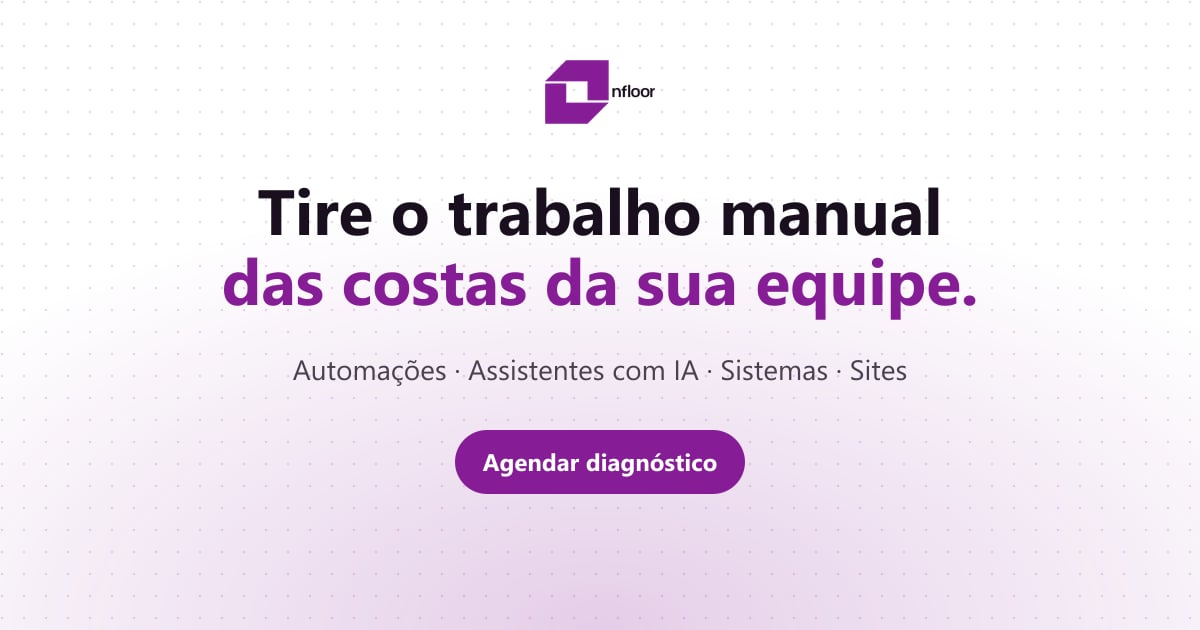
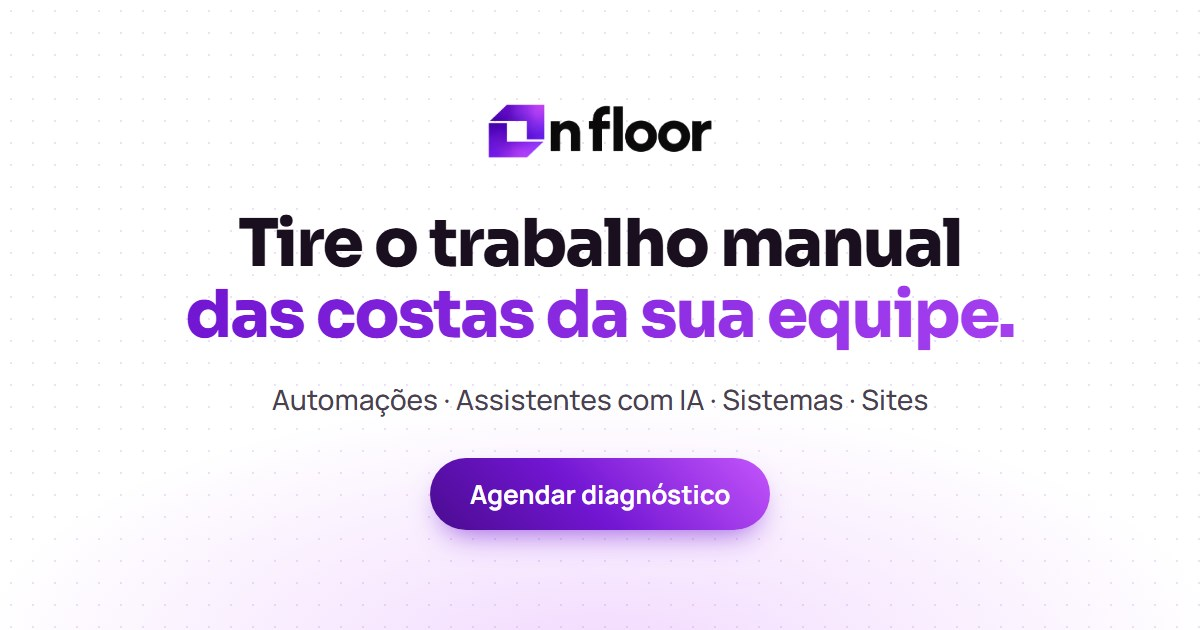
Aplica a nova identidade visual da On Floor no site
Logo novo (ícone em degradê roxo fazendo o "O" de "nfloor") no topo e
no rodapé, com texto preto no fundo claro e branco no escuro, e o ícone
novo como favicon. O roxo da marca passa de #861d97 para #7216d3, o
mesmo do painel do SDR, e os degradês do botão do diagrama e do bloco de
contato seguem o da identidade (#c455fb → #4a0b8f). A imagem de
compartilhamento foi refeita com o logo e as cores novas.

Changed region(s): [[0.1542, 0.3016, 0.8633, 0.8746], [0.4008, 0.0905, 0.6167, 0.2714]]

diff --git a/styles.css b/styles.css
@@ -1,7 +1,7 @@
 /* ═══ DESIGN SYSTEM — On Floor ═══
    Tom: limpo, claro e confiável — fala com quem não é da área.
    Fontes: Sora (títulos) + Manrope (texto)
-   Cor de marca: roxo On Floor (#861d97) sobre fundo branco
+   Cor de marca: roxo On Floor (#7216d3), degradê da identidade #c455fb → #4a0b8f, sobre fundo branco
 ═══════════════════════════════════════════════════ */
 
 :root {
@@ -12,12 +12,12 @@
     --muted: #7a7182;
     --line: #ece6ef;
 
-    --brand: #861d97;
-    --brand-600: #6f1580;
-    --brand-700: #57106a;
-    --brand-300: #c98fd4;
-    --brand-100: #f3e3f6;
-    --brand-50: #fbf4fc;
+    --brand: #7216d3;
+    --brand-600: #5f10b3;
+    --brand-700: #4a0b8f;
+    --brand-300: #b88af0;
+    --brand-100: #efe6fd;
+    --brand-50: #f8f4fe;
     --ok: #16a34a;
 
     --radius-sm: 10px;
@@ -25,7 +25,7 @@
     --radius-lg: 24px;
     --shadow-sm: 0 1px 2px rgba(26, 15, 31, 0.05), 0 2px 8px rgba(26, 15, 31, 0.04);
     --shadow: 0 18px 50px -18px rgba(26, 15, 31, 0.22);
-    --shadow-brand: 0 10px 28px -10px rgba(134, 29, 151, 0.6);
+    --shadow-brand: 0 10px 28px -10px rgba(114, 22, 211, 0.6);
 
     --font-display: 'Sora', 'Manrope', system-ui, -apple-system, 'Segoe UI', sans-serif;
     --font: 'Manrope', system-ui, -apple-system, 'Segoe UI', sans-serif;
@@ -81,7 +81,7 @@ a:focus-visible,
 button:focus-visible,
 input:focus-visible,
 textarea:focus-visible {
-    outline: 3px solid rgba(134, 29, 151, 0.35);
+    outline: 3px solid rgba(114, 22, 211, 0.35);
     outline-offset: 3px;
 }
 
@@ -140,12 +140,12 @@ textarea:focus-visible {
 .btn-primary {
     background: var(--brand);
     color: #fff;
-    box-shadow: 0 10px 28px -10px rgba(134, 29, 151, 0.12);
+    box-shadow: 0 10px 28px -10px rgba(114, 22, 211, 0.12);
 }
 
 .btn-primary:hover {
     background: var(--brand-600);
-    box-shadow: 0 14px 32px -12px rgba(134, 29, 151, 0.14);
+    box-shadow: 0 14px 32px -12px rgba(114, 22, 211, 0.14);
 }
 
 .btn-secondary {
@@ -247,7 +247,7 @@ textarea:focus-visible {
 }
 
 .brand-logo {
-    height: 42px;
+    height: 32px;
     width: auto;
 }
 
@@ -322,8 +322,8 @@ textarea:focus-visible {
     inset: 0;
     z-index: -1;
     background:
-        radial-gradient(ellipse 60% 45% at 50% 62%, rgba(134, 29, 151, 0.16), transparent 70%),
-        radial-gradient(circle, rgba(134, 29, 151, 0.16) 1px, transparent 1.5px) 0 0 / 22px 22px;
+        radial-gradient(ellipse 60% 45% at 50% 62%, rgba(114, 22, 211, 0.16), transparent 70%),
+        radial-gradient(circle, rgba(114, 22, 211, 0.16) 1px, transparent 1.5px) 0 0 / 22px 22px;
     -webkit-mask-image: radial-gradient(ellipse 80% 70% at 50% 40%, #000 35%, transparent 80%);
     mask-image: radial-gradient(ellipse 80% 70% at 50% 40%, #000 35%, transparent 80%);
 }
@@ -441,7 +441,7 @@ textarea:focus-visible {
     border-radius: var(--radius-lg);
     background: rgba(255, 255, 255, 0.92);
     border: 1px solid var(--line);
-    box-shadow: 0 40px 100px -40px rgba(87, 16, 106, 0.45), 0 0 0 8px rgba(134, 29, 151, 0.05);
+    box-shadow: 0 40px 100px -40px rgba(87, 16, 106, 0.45), 0 0 0 8px rgba(114, 22, 211, 0.05);
     overflow: hidden;
 }
 
@@ -530,7 +530,7 @@ textarea:focus-visible {
 
 .flow-lines .pulse {
     fill: var(--brand);
-    filter: drop-shadow(0 0 6px rgba(134, 29, 151, 0.6));
+    filter: drop-shadow(0 0 6px rgba(114, 22, 211, 0.6));
 }
 
 .flow-col {
@@ -563,7 +563,7 @@ textarea:focus-visible {
 
 .flow-node.is-active {
     border-color: var(--brand-300);
-    box-shadow: 0 10px 26px -12px rgba(134, 29, 151, 0.45);
+    box-shadow: 0 10px 26px -12px rgba(114, 22, 211, 0.45);
     transform: translateY(-2px);
 }
 
@@ -661,8 +661,8 @@ textarea:focus-visible {
     width: 92px;
     height: 92px;
     border-radius: 28px;
-    background: linear-gradient(145deg, #a02bb3, var(--brand) 55%, var(--brand-700));
-    box-shadow: 0 20px 40px -14px rgba(134, 29, 151, 0.75), inset 0 1px 0 rgba(255, 255, 255, 0.25);
+    background: linear-gradient(225deg, #c455fb 0%, var(--brand) 55%, var(--brand-700) 100%);
+    box-shadow: 0 20px 40px -14px rgba(114, 22, 211, 0.75), inset 0 1px 0 rgba(255, 255, 255, 0.25);
     transition: transform 0.3s var(--ease-out);
 }
 
@@ -989,7 +989,7 @@ textarea:focus-visible {
     padding: 1.25rem;
     border-radius: var(--radius);
     background: var(--bg-soft);
-    background-image: radial-gradient(circle, rgba(134, 29, 151, 0.12) 1px, transparent 1.5px);
+    background-image: radial-gradient(circle, rgba(114, 22, 211, 0.12) 1px, transparent 1.5px);
     background-size: 16px 16px;
     overflow: hidden;
 }
@@ -1213,7 +1213,7 @@ textarea:focus-visible {
 
 @keyframes hubPulse {
     50% {
-        box-shadow: 0 0 0 8px rgba(134, 29, 151, 0.12);
+        box-shadow: 0 0 0 8px rgba(114, 22, 211, 0.12);
     }
 }
 
@@ -1648,7 +1648,7 @@ textarea:focus-visible {
     align-items: center;
     padding: clamp(2rem, 5vw, 4rem);
     border-radius: 32px;
-    background: linear-gradient(140deg, #9a28ac 0%, var(--brand) 45%, var(--brand-700) 100%);
+    background: linear-gradient(225deg, #c455fb 0%, var(--brand) 45%, var(--brand-700) 100%);
     color: #fff;
     isolation: isolate;
 }
@@ -1751,7 +1751,7 @@ textarea:focus-visible {
 .field textarea:focus {
     outline: none;
     border-color: var(--brand);
-    box-shadow: 0 0 0 4px rgba(134, 29, 151, 0.12);
+    box-shadow: 0 0 0 4px rgba(114, 22, 211, 0.12);
 }
 
 .contact-form .btn {
@@ -1815,7 +1815,7 @@ textarea:focus-visible {
 }
 
 .footer-logo {
-    height: 50px;
+    height: 38px;
     width: auto;
     margin-bottom: 1rem;
 }
@@ -2065,7 +2065,7 @@ textarea:focus-visible {
     }
 
     .brand-logo {
-        height: 36px;
+        height: 28px;
     }
 
     /* Hero */

diff --git a/index.html b/index.html
@@ -8,8 +8,8 @@
     <meta name="description"
         content="A On Floor desenvolve automações, agentes de IA, sistemas e experiências digitais para reduzir tarefas manuais e melhorar operações empresariais.">
     <link rel="canonical" href="https://onfloor.com.br/">
-    <meta name="theme-color" content="#861d97">
-    <link rel="icon" type="image/png" href="logo/favicon.png">
+    <meta name="theme-color" content="#7216d3">
+    <link rel="icon" type="image/png" href="logo/favicon.png?v=2">
 
     <!-- Open Graph -->
     <meta property="og:type" content="website">
@@ -79,7 +79,7 @@
 
     <header class="site-nav" id="siteNav">
         <a href="#inicio" class="nav-brand" aria-label="On Floor, início">
-            <img src="logo/onfloor-wordmark-dark.png" alt="On Floor" class="brand-logo" width="548" height="318">
+            <img src="logo/onfloor-wordmark-dark.png" alt="On Floor" class="brand-logo" width="601" height="160">
         </a>
         <nav class="nav-links" aria-label="Navegação principal">
             <a href="#capabilities" class="nav-link">Soluções</a>
@@ -98,7 +98,7 @@
     <div class="mobile-overlay" id="mobileOverlay"></div>
     <div class="mobile-drawer" id="mobileDrawer" aria-hidden="true">
         <div class="drawer-header">
-            <img src="logo/onfloor-wordmark-dark.png" alt="On Floor" class="brand-logo" width="548" height="318">
+            <img src="logo/onfloor-wordmark-dark.png" alt="On Floor" class="brand-logo" width="601" height="160">
             <button class="drawer-close" id="drawerClose" aria-label="Fechar menu">
                 <svg class="icon"><use href="#i-x"></use></svg>
             </button>
@@ -627,7 +627,7 @@
     <footer class="site-footer">
         <div class="footer-top">
             <div class="footer-brand">
-                <img src="logo/onfloor-wordmark-white.png" alt="On Floor" class="footer-logo" width="548" height="318"
+                <img src="logo/onfloor-wordmark-white.png" alt="On Floor" class="footer-logo" width="598" height="160"
                     loading="lazy">
                 <p>Tecnologia para empresas que querem operar melhor.</p>
             </div>
